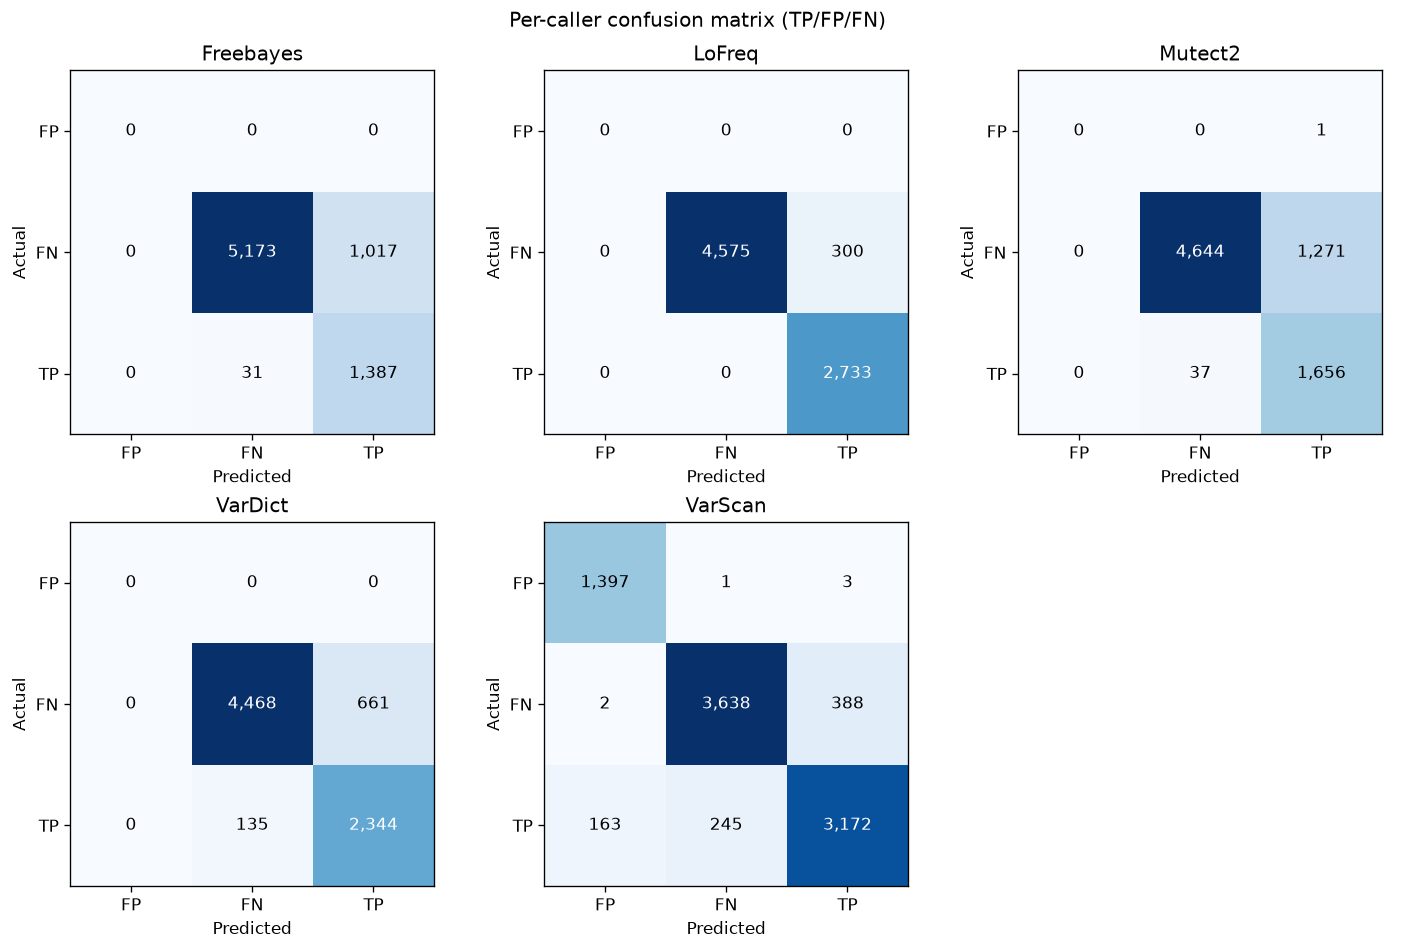
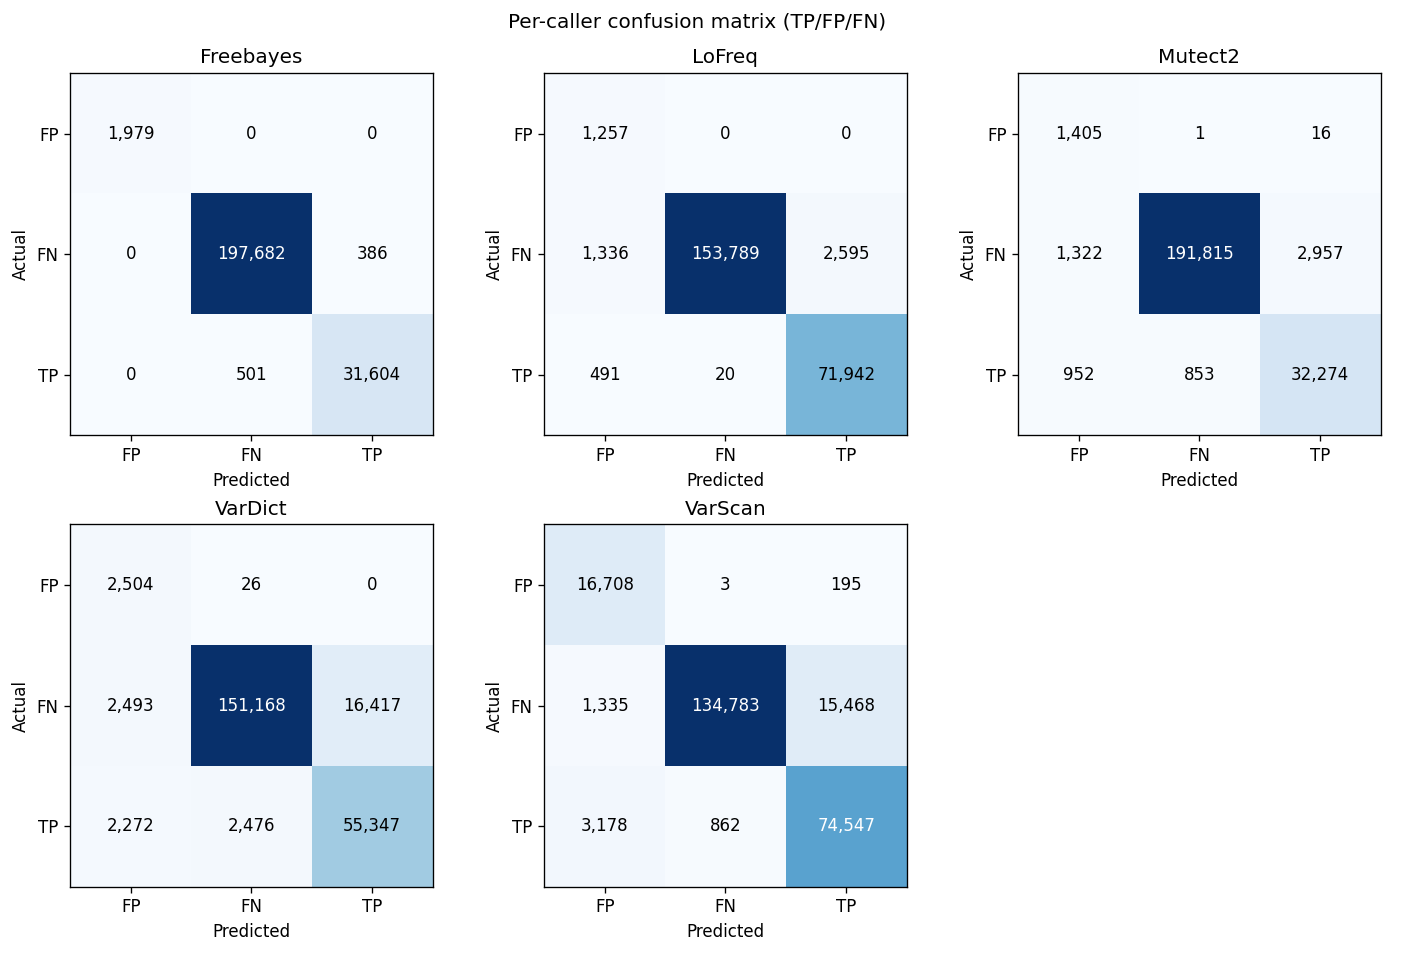
run pipeline; add artifacts

diff --git a/main.py b/main.py
@@ -316,7 +316,7 @@ def print_caller_report(report: pd.DataFrame) -> None:
                 f"precision={getattr(row, f'precision_{name}'):.4f} "
                 f"recall={getattr(row, f'recall_{name}'):.4f} "
                 f"f1={getattr(row, f'f1_{name}'):.4f} "
-                f"support={int(getattr(row, f'support_{name}')):,}"
+                f"num_samples={int(getattr(row, f'support_{name}')):,}"
             )
         print(
             f"  macro: "
